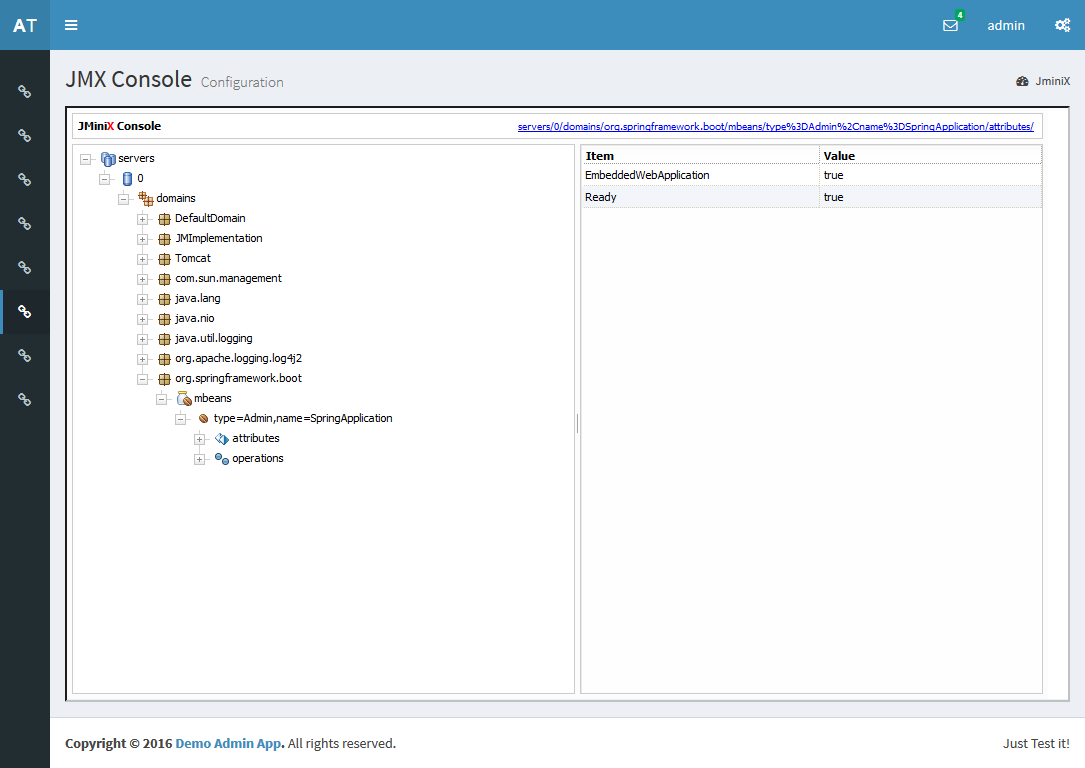
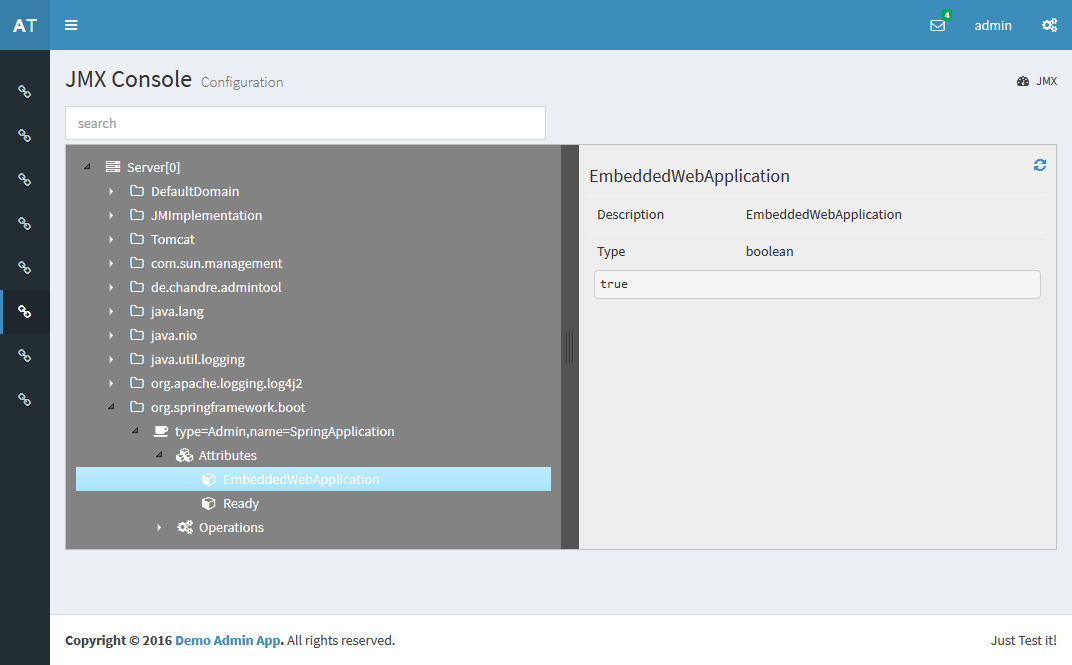
#26 - feature update: rebuild JMX Browser

diff --git a/admin-tools-jminix/src/main/java/de/chandre/admintool/jminix/AdminToolJmxController.java b/admin-tools-jminix/src/main/java/de/chandre/admintool/jminix/AdminToolJmxController.java
@@ -30,17 +30,22 @@ public class AdminToolJmxController extends AbstractAdminController {
 	private static final Log LOGGER = LogFactory.getLog(AdminToolJmxController.class);
 
 	@Autowired
+	private AdminToolJminixConfig config;
+	
+	@Autowired
 	private AdminToolJmxService jmxService;
 	
 	@RequestMapping(value = {"/tree"}, method=RequestMethod.GET, produces={MediaType.APPLICATION_JSON_UTF8_VALUE})
 	@ResponseBody
 	public List<JsTree> getNode(HttpServletRequest request, HttpServletResponse response) throws IOException {
-		LOGGER.debug("building JMX tree");
-		try {
-			return jmxService.buildTree();
-		} catch (Exception e) {
-			e.printStackTrace();
-			response.sendError(500, e.getMessage());
+		if (config.isEnabled()) {
+			LOGGER.debug("building JMX tree");
+			try {
+				return jmxService.buildTree();
+			} catch (Exception e) {
+				e.printStackTrace();
+				response.sendError(500, e.getMessage());
+			}
 		}
 		return null;
 	}
@@ -48,12 +53,14 @@ public class AdminToolJmxController extends AbstractAdminController {
 	@RequestMapping(value = {"/attributes", "/attribute"}, method=RequestMethod.POST, produces={MediaType.APPLICATION_JSON_UTF8_VALUE})
 	@ResponseBody
 	public JmxResponseTO attributes(@RequestBody JmxQueryTO queryTO, HttpServletRequest request, HttpServletResponse response) throws IOException {
-		LOGGER.debug("resolving attributes: " + queryTO);
-		try {
-			return jmxService.getAttributes(queryTO);
-		} catch (Exception e) {
-			e.printStackTrace();
-			response.sendError(500, e.getMessage());
+		if (config.isEnabled()) {
+			LOGGER.debug("resolving attributes: " + queryTO);
+			try {
+				return jmxService.getAttributes(queryTO);
+			} catch (Exception e) {
+				e.printStackTrace();
+				response.sendError(500, e.getMessage());
+			}
 		}
 		return null;
 	}
@@ -61,12 +68,14 @@ public class AdminToolJmxController extends AbstractAdminController {
 	@RequestMapping(value = {"/operation"}, method=RequestMethod.POST, produces={MediaType.APPLICATION_JSON_UTF8_VALUE})
 	@ResponseBody
 	public JmxResponseTO operations(@RequestBody JmxQueryTO queryTO, HttpServletRequest request, HttpServletResponse response) throws IOException {
-		LOGGER.debug("resolving operations: " + queryTO);
-		try {
-			return jmxService.getOpperation(queryTO);
-		} catch (Exception e) {
-			e.printStackTrace();
-			response.sendError(500, e.getMessage());
+		if (config.isEnabled()) {
+			LOGGER.debug("resolving operations: " + queryTO);
+			try {
+				return jmxService.getOpperation(queryTO);
+			} catch (Exception e) {
+				e.printStackTrace();
+				response.sendError(500, e.getMessage());
+			}
 		}
 		return null;
 	}
@@ -74,12 +83,14 @@ public class AdminToolJmxController extends AbstractAdminController {
 	@RequestMapping(value = {"/operation/execute"}, method=RequestMethod.POST, produces={MediaType.APPLICATION_JSON_UTF8_VALUE})
 	@ResponseBody
 	public JmxResponseTO updateValue(@RequestBody JmxExecuteTO executeTO, HttpServletRequest request, HttpServletResponse response) throws IOException {
-		LOGGER.debug("update value: " + executeTO);
-		try {
-			return jmxService.getExecuteOperation(executeTO);
-		} catch (Exception e) {
-			e.printStackTrace();
-			response.sendError(500, e.getMessage());
+		if (config.isEnabled()) {
+			LOGGER.debug("update value: " + executeTO);
+			try {
+				return jmxService.getExecuteOperation(executeTO);
+			} catch (Exception e) {
+				e.printStackTrace();
+				response.sendError(500, e.getMessage());
+			}
 		}
 		return null;
 	}

diff --git a/admin-tools-jminix/src/main/java/de/chandre/admintool/jminix/AdminToolJminixLoader.java b/admin-tools-jminix/src/main/java/de/chandre/admintool/jminix/AdminToolJminixLoader.java
@@ -31,7 +31,7 @@ public class AdminToolJminixLoader extends AbstractAdminToolLoader
 	public void configureAdminTool()
 	{
 		if(!coreConfig.isEnabled() || !config.isEnabled()) {
-			LOGGER.info("admin tool's jminix browser integation is deactivated");
+			LOGGER.info("admin tool's jminix browser is deactivated");
 			return;
 		}
 		
@@ -44,15 +44,13 @@ public class AdminToolJminixLoader extends AbstractAdminToolLoader
 		component.getSecurityRoles().addAll(config.getSecurityRoles());
 		component.setDisplayName("JMX Console");
 		
-//		component.addAdditionalJS("/webjars/jquery-ui/1.12.1/jquery-ui.min.js", true);
-//		component.addAdditionalJS("/webjars/jquery-ui/1.12.1/ui/widgets/resizable.js", true);
 		component.addAdditionalJS(getWebjarsPrefixUri() + "mustache/" + config.getMustacheVersion() + "/mustache.min.js", relative);
-		component.addAdditionalJS("/webjars/jstree/3.3.4/dist/jstree.js", true);
+		component.addAdditionalJS(getWebjarsPrefixUri() + "jstree/" + config.getJsTreeVersion() + "/dist/jstree.js", relative);
 		
 		component.addAdditionalJS("/static/admintool/jmx/js/jquery-resizable.js", true);
 		component.addAdditionalJS("/static/admintool/jmx/js/jmx.js", true);
 		
-		component.addAdditionalCSS("/webjars/jstree/3.3.4/dist/themes/default/style.css", true);
+		component.addAdditionalCSS(getWebjarsPrefixUri() + "jstree/" + config.getJsTreeVersion()+ "/dist/themes/default/style.css", relative);
 		component.addAdditionalCSS("/static/admintool/jmx/css/jmx.css", true);
 		
 		

diff --git a/admin-tools-jminix/src/main/java/de/chandre/admintool/jminix/AdminToolJminixConfig.java b/admin-tools-jminix/src/main/java/de/chandre/admintool/jminix/AdminToolJminixConfig.java
@@ -27,6 +27,9 @@ public class AdminToolJminixConfig implements AdminToolConfig {
 	@Value("${admintool.jmx.mustacheVersion:2.3.0}")
 	private String mustacheVersion;
 	
+	@Value("${admintool.jmx.jsTreeVersion:3.3.4}")
+	private String jsTreeVersion;
+	
 	@Value("${adminTool.jmx.updateAllowed:true}")
 	private boolean updateAllowed;
 
@@ -51,14 +54,47 @@ public class AdminToolJminixConfig implements AdminToolConfig {
 		this.componentPosition = componentPosition;
 	}
 	
+	/**
+	 * 
+	 * @return
+	 * @since 1.1.6
+	 */
 	public String getMustacheVersion() {
 		return mustacheVersion;
 	}
 
+	/**
+	 * 
+	 * @param mustacheVersion
+	 * @since 1.1.6
+	 */
 	public void setMustacheVersion(String mustacheVersion) {
 		this.mustacheVersion = mustacheVersion;
 	}
 
+	/**
+	 * 
+	 * @return
+	 * @since 1.1.6
+	 */
+	public String getJsTreeVersion() {
+		return jsTreeVersion;
+	}
+
+	/**
+	 * 
+	 * @param jsTreeVersion
+	 * @since 1.1.6
+	 */
+	public void setJsTreeVersion(String jsTreeVersion) {
+		this.jsTreeVersion = jsTreeVersion;
+	}
+
+	/**
+	 * 
+	 * @return
+	 * @since 1.1.6
+	 */
 	public boolean isUpdateAllowed() {
 		return updateAllowed;
 	}
@@ -77,6 +113,4 @@ public class AdminToolJminixConfig implements AdminToolConfig {
 				.append("]");
 		return builder.toString();
 	}
-
-	
 }

diff --git a/admin-tools-jminix/README.md b/admin-tools-jminix/README.md
@@ -24,6 +24,8 @@
 ```
 
 ## Configurations
+
+### before 1.1.6
 If spring security is enabled and you want to use the change functionality of JMiniX you have to disable CSRF. 
 Furthermore you have to set the frame options, because. 
 
@@ -39,6 +41,13 @@ Furthermore you have to set the frame options, because.
     }
 
 ```
+
+### since 1.1.6
+Completely rebuild functionality of JMX Browser.
+
+CSRF must be enabled with enabled Spring Security. There also no need to configure frameOptions anymore.
+
+ 
 
 The following properties are available:
 
@@ -59,5 +68,17 @@ The following properties are available:
 	#since 1.0.1
 	# integer value. used by default comparator to order components
 	admintool.jminix.componentPosition=
+	
+	#since 1.1.6
+	# string value. used version of mustache js (only useful to change if a CDN is used)
+	admintool.jmx.mustacheVersion=2.3.0
+	
+	#since 1.1.6
+	# string value. used version of jsTree (only useful to change if a CDN is used)
+	admintool.jmx.jsTreeVersion=3.3.4
+	
+	#since 1.1.6
+	# boolean. used by default comparator to order components
+	adminTool.jmx.updateAllowed=true
 	
 ```
